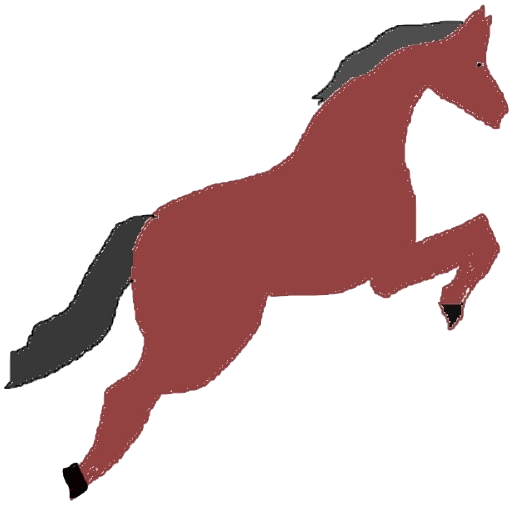
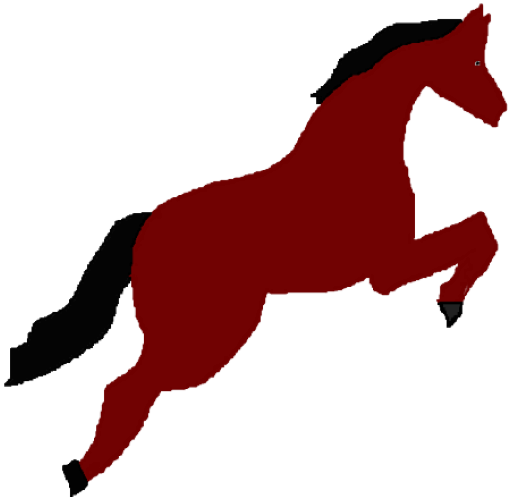
added alternating horse running animation and cleaned up the existing horse sprites

diff --git a/src/components/Game.tsx b/src/components/Game.tsx
@@ -2,6 +2,7 @@ import React, { useEffect, useRef, useState } from "react";
 import "../styles/Game.css";
 import backgroundImage from "../assets/images/background.png";
 import horseImageNormal from "../assets/images/normal.png";
+import horseImageNormal2 from "../assets/images/normal2.png";
 import horseImageJump from "../assets/images/jumping.png";
 import hurdleImageSrc1 from "../assets/images/hurdle1.png";
 import hurdleImageSrc2 from "../assets/images/hurdle2.png";
@@ -21,6 +22,8 @@ const YELLOW_HURDLE_COLOR = { r: 255, g: 240, b: 0 };
 const COLOR_TOLERANCE = 10; // allow
 
 export const Game: React.FC = () => {
+  const SPRITE_SWITCH_INTERVAL = 200;
+  const [currentRunningSprite, setCurrentRunningSprite] = useState(0);
   const canvasRef = useRef<HTMLCanvasElement>(null);
   const animationFrameRef = useRef<number | null>(null);
   const backgroundXRef = useRef(0);
@@ -121,6 +124,9 @@ export const Game: React.FC = () => {
     const horseImageNormalSprite = new Image();
     horseImageNormalSprite.src = horseImageNormal;
 
+    const horseImageNormalSprite2 = new Image();
+    horseImageNormalSprite2.src = horseImageNormal2;
+
     const horseImageJumpSprite = new Image();
     horseImageJumpSprite.src = horseImageJump;
 
@@ -129,6 +135,13 @@ export const Game: React.FC = () => {
 
     const hurdleImage2 = new Image();
     hurdleImage2.src = hurdleImageSrc2;
+
+    // Set up sprite alternation interval
+  const spriteInterval = setInterval(() => {
+    if (!isJumpingRef.current && !gameOver) {
+      setCurrentRunningSprite((prev) => (prev === 0 ? 1 : 0));
+    }
+  }, SPRITE_SWITCH_INTERVAL);
 
     const gameLoop = () => {
       if (ctx && canvas) {
@@ -155,6 +168,11 @@ export const Game: React.FC = () => {
           backgroundXRef.current = 0;
         }
 
+
+        const currentSprite =
+        isJumpingRef.current ? horseImageJumpSprite : (currentRunningSprite === 0 ? horseImageNormalSprite : horseImageNormalSprite2);
+
+
         // Draw the background
         ctx.drawImage(
           background,
@@ -173,12 +191,16 @@ export const Game: React.FC = () => {
 
         // Draw the horse
         ctx.drawImage(
-          isJumpingRef.current ? horseImageJumpSprite : horseImageNormalSprite,
+          currentSprite,
           50,
           horseYRef.current,
           HORSE_WIDTH,
           HORSE_HEIGHT
         );
+
+        ctx.fillStyle = 'white';
+        ctx.font = '20px Arial';
+        ctx.fillText(`Current Sprite: ${currentRunningSprite}`, 10, 30);
 
         // Random hurdle spawning
         if (Math.random() < 0.02) {
@@ -229,8 +251,9 @@ export const Game: React.FC = () => {
       if (animationFrameRef.current) {
         cancelAnimationFrame(animationFrameRef.current);
       }
+      clearInterval(spriteInterval);
     };
-  }, [gameOver]);
+  }, [gameOver, currentRunningSprite]);
 
   useEffect(() => {
     const handleKeyPress = (e: KeyboardEvent) => {
